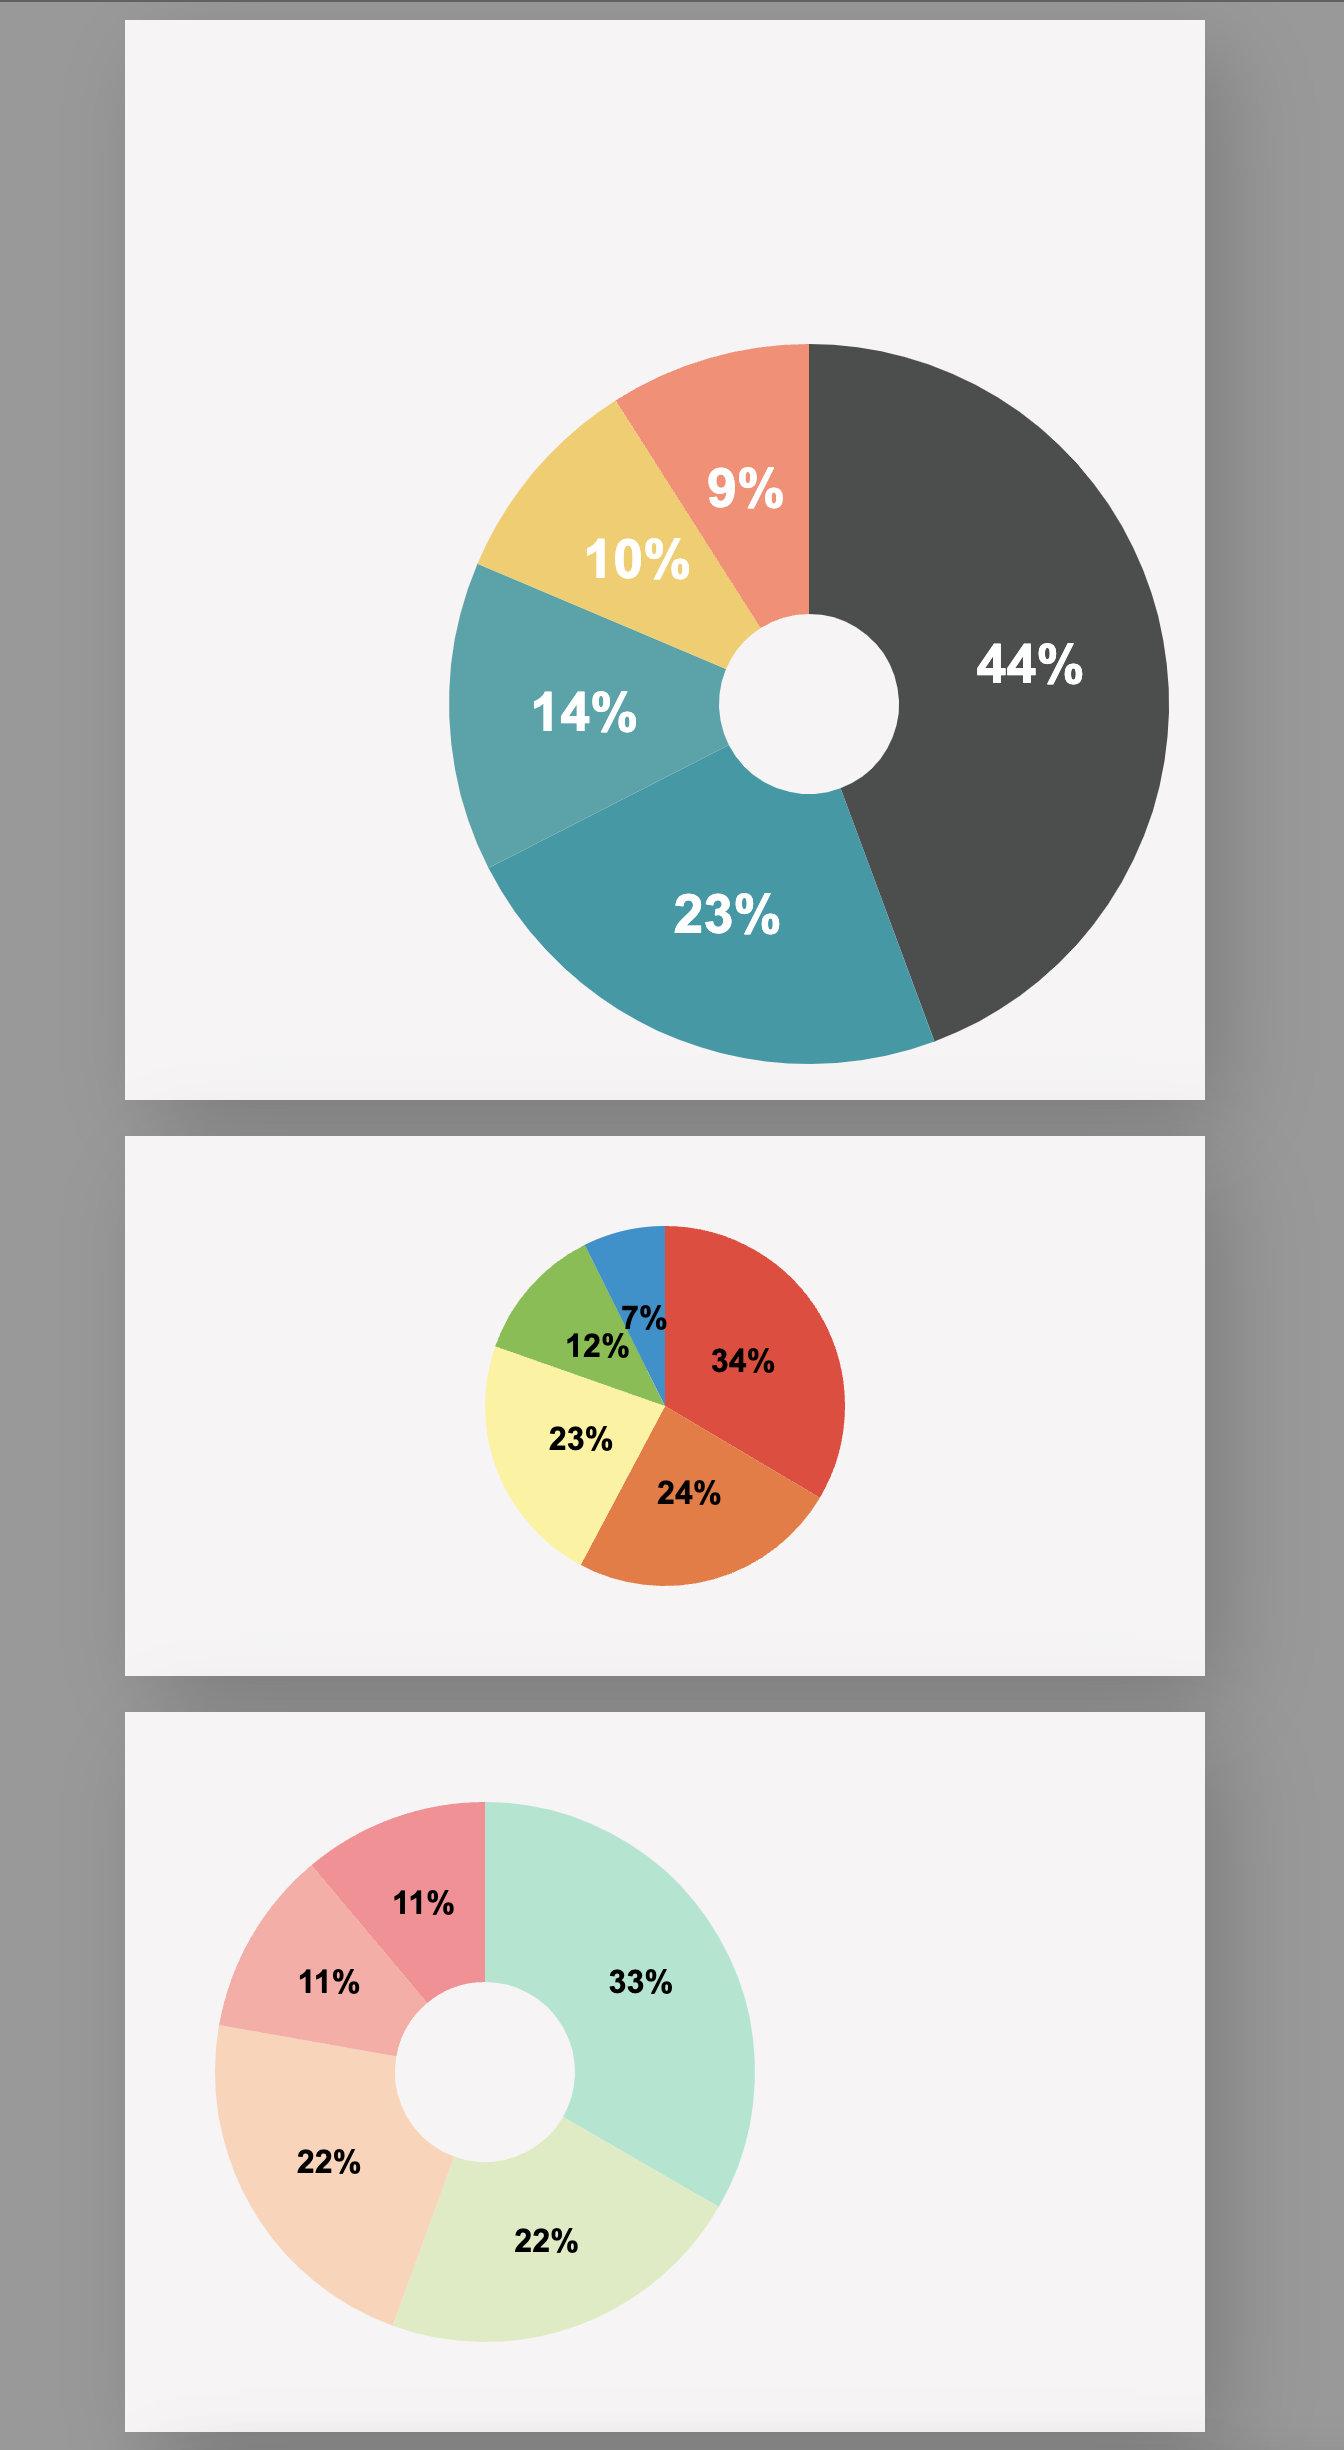
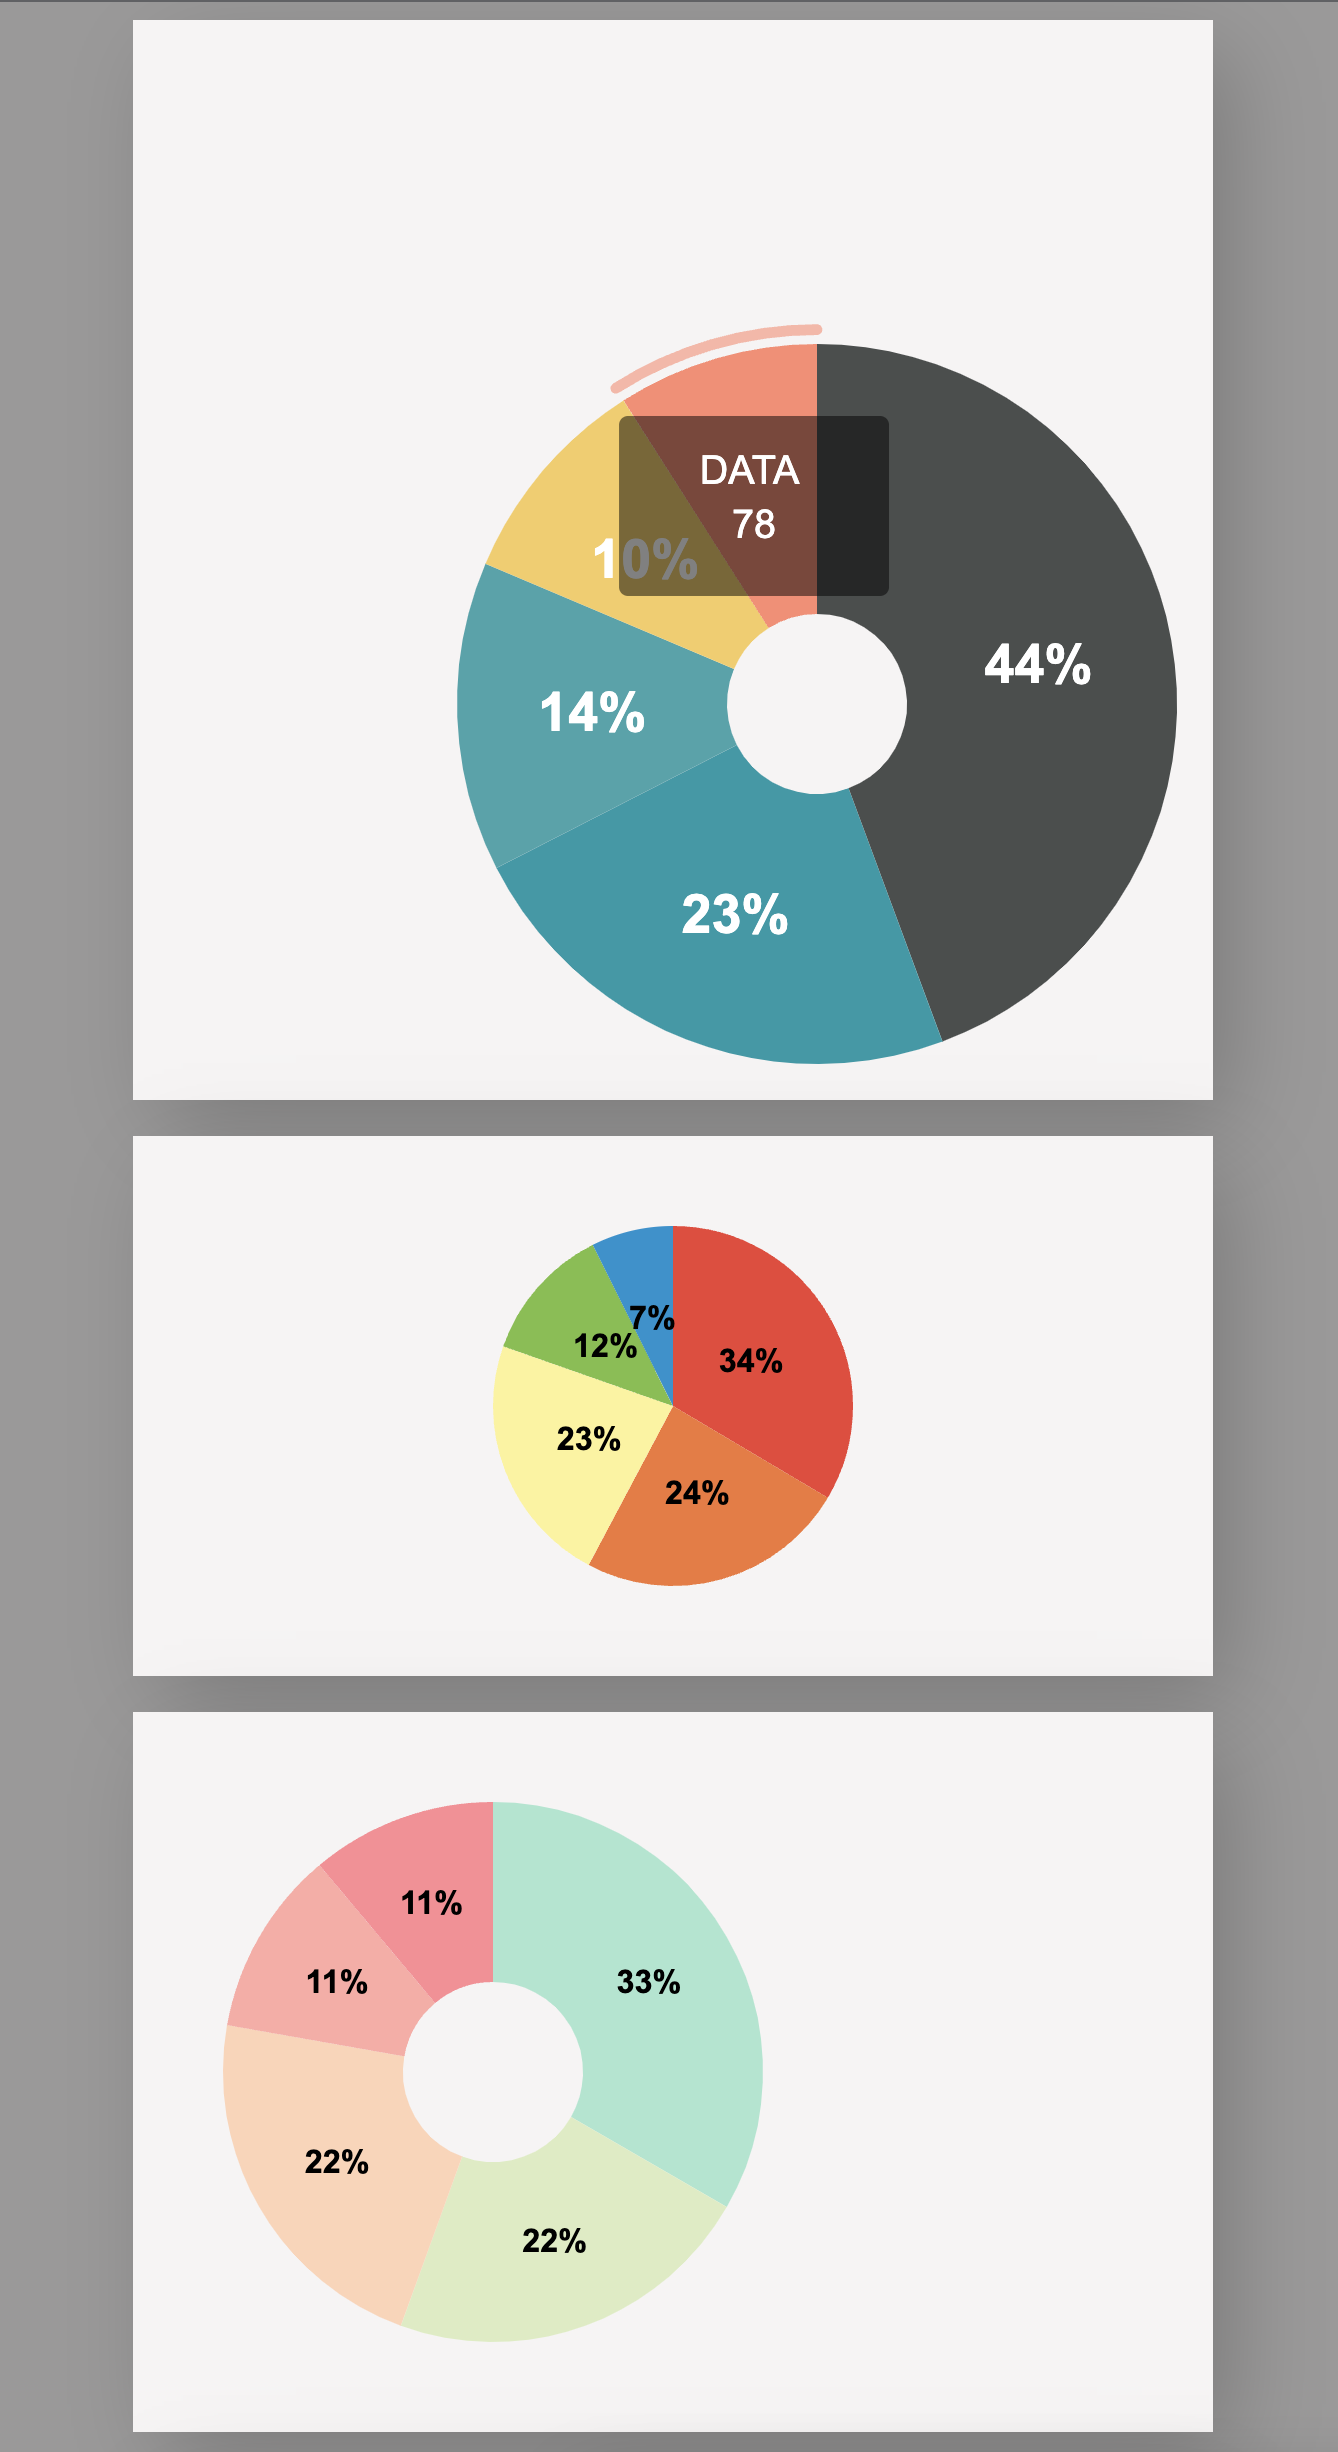
image

diff --git a/index.html b/index.html
@@ -16,13 +16,6 @@
 </head>
 <body>
 
-<h2>Tooltip</h2>
-<p>Move the mouse over the text below:</p>
-
-<div class="tooltip">Hover over me
-    <span class="tooltiptext">Tooltip text</span>
-</div>
-
 
 
 

diff --git a/README.md b/README.md
@@ -10,6 +10,7 @@ This is the first attempt to create reusable charts using SVG-Elements.
 
 Currently there are pieCharts - but not yet dynamic. Also no other legend than showing percentage of slices.
 Each pie-chart got its own background with own dimension-properties and can be freely placed on that "canvas".
+At least it's a bit interactive ;)
 
 The charts get created by passing a data-obj including data and chart-properties to a function.
 
